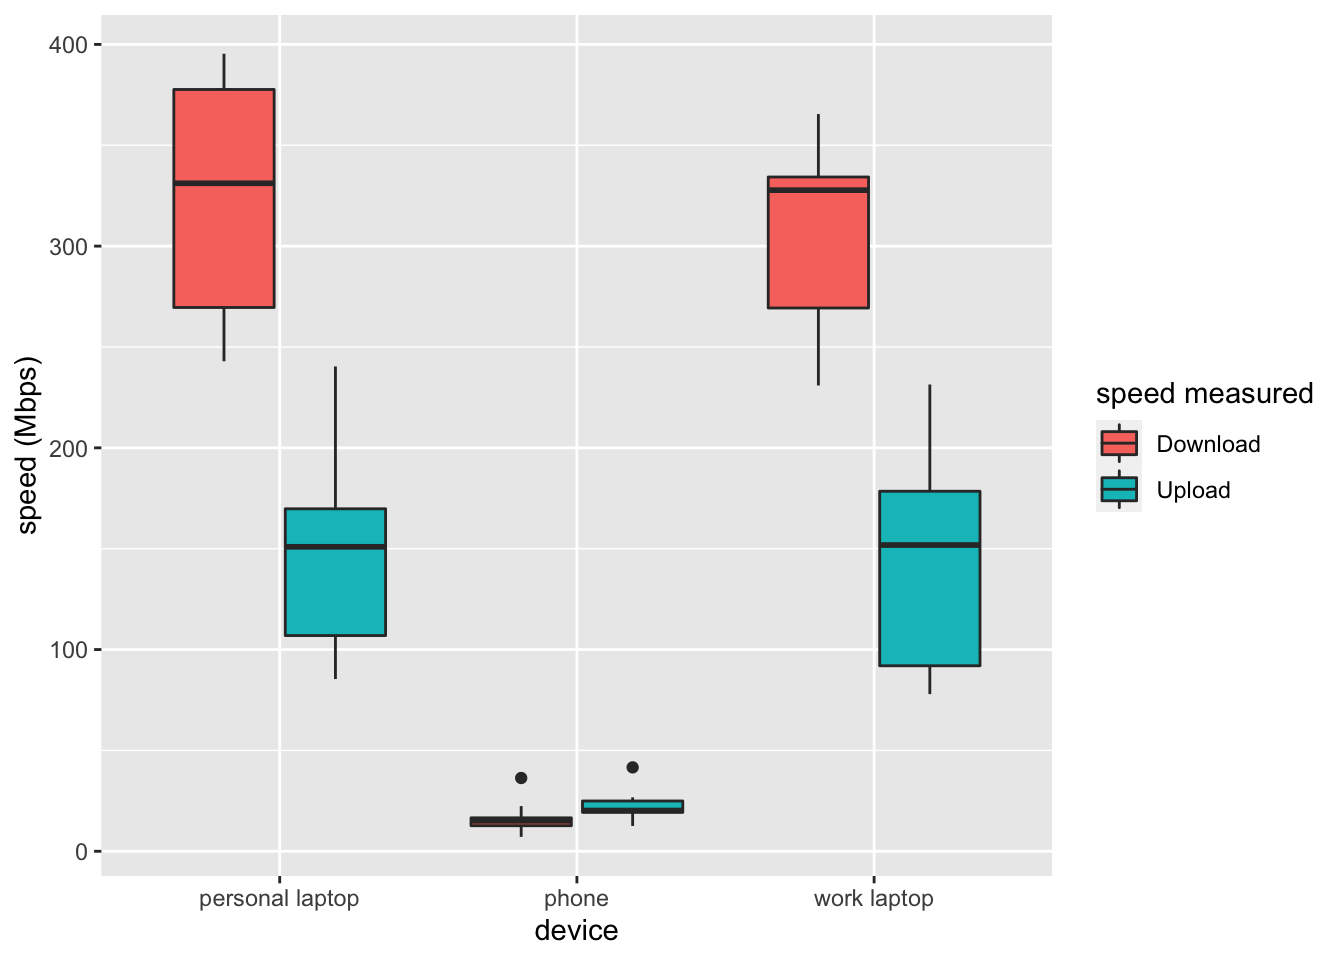
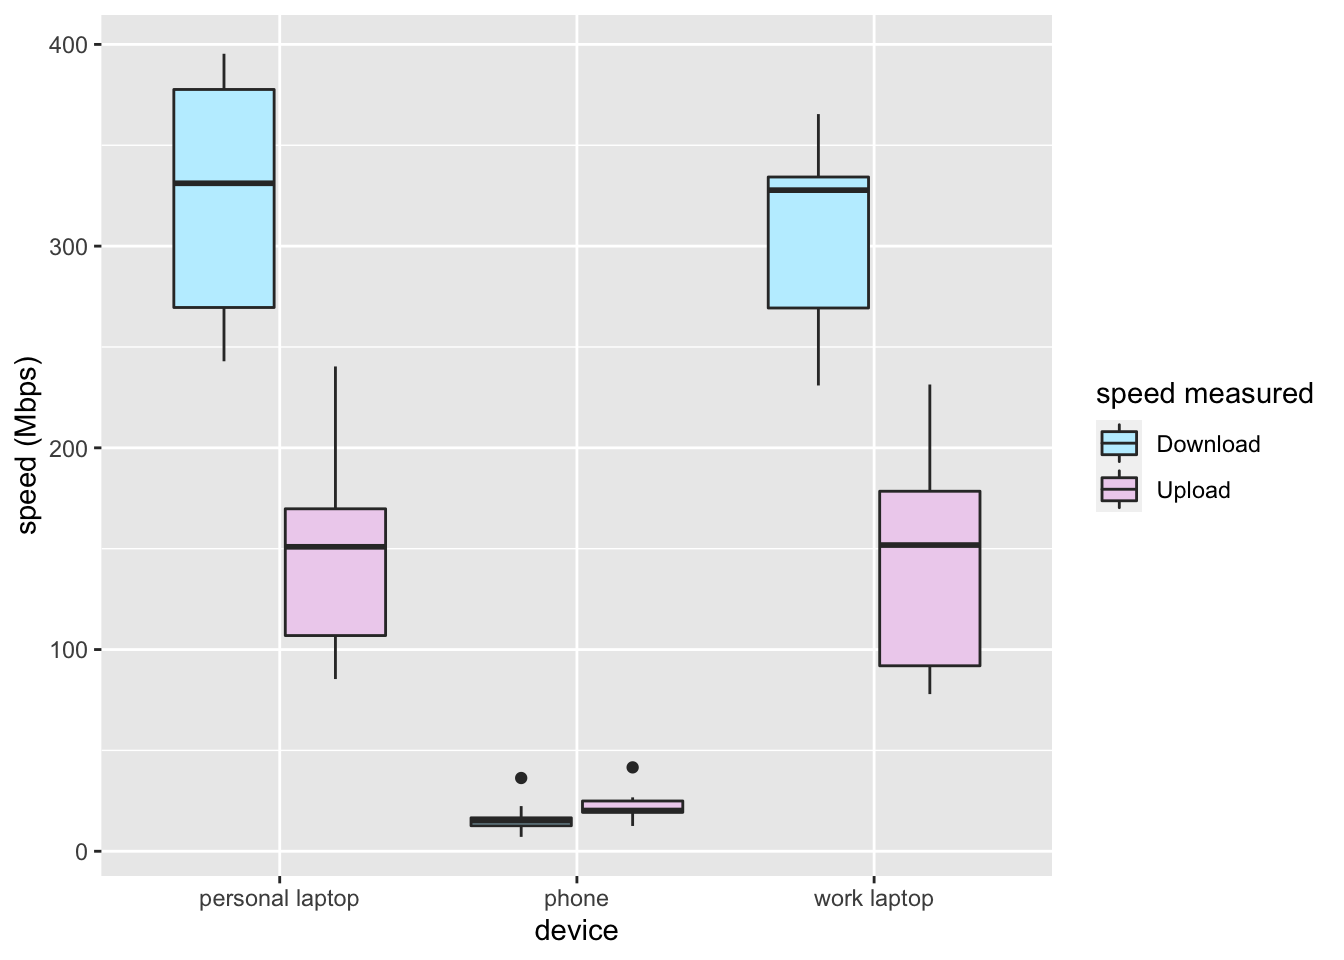
.

diff --git a/docs/hyperoptic_report.html b/docs/hyperoptic_report.html
@@ -133,9 +133,9 @@ pre > code.sourceCode > span > a:first-child::before { text-decoration: underlin
 </header>
 
 
-<p>The past week or so has been full of troubleshooting wifi speed problems. Various changes suggested by the Hyperoptic team has not succeeded in bringing my internet speed close to the speed of 1 Gbps prmised in the package I chose.</p>
+<p>The past week or so has been full of troubleshooting wifi speed problems. Various changes suggested by the Hyperoptic team has not succeeded in bringing my internet speed close to the speed of 1 Gbps promised in the package I chose.</p>
 <p>Most recent suggestion was that I try doing the speedtest on different devices. Perhaps the experts at hyperoptic are baffled their suggestions of trying a different cable or resetting the router are not working. The trouble must be with my device! So this is what I did.</p>
-<p>However, I wondered, how will they know if the difference in speed between different devices is significant? Worry not, Hyperoptic. I was trained in statistics, and my passion for <code>R</code> can help us both.</p>
+<p>However, I wondered, how will they know if the difference in speed between different devices is significant? Worry not, Hyperoptic, I was trained in statistics, and my passion for <code>R</code> can help us both.</p>
 <p>You are welcome.</p>
 <section id="create-a-summary-of-data" class="level2">
 <h2 class="anchored" data-anchor-id="create-a-summary-of-data">Create a summary of data</h2>
@@ -189,7 +189,8 @@ pre > code.sourceCode > span > a:first-child::before { text-decoration: underlin
 <span id="cb2-4"><a href="#cb2-4" aria-hidden="true" tabindex="-1"></a>  <span class="fu">geom_boxplot</span>(<span class="fu">aes</span>(<span class="at">x =</span> device, <span class="at">y =</span> value, <span class="at">fill =</span> variable)) <span class="sc">+</span></span>
 <span id="cb2-5"><a href="#cb2-5" aria-hidden="true" tabindex="-1"></a>  <span class="fu">xlab</span>(<span class="st">"device"</span>) <span class="sc">+</span></span>
 <span id="cb2-6"><a href="#cb2-6" aria-hidden="true" tabindex="-1"></a>  <span class="fu">ylab</span>(<span class="st">"speed (Mbps)"</span>) <span class="sc">+</span></span>
-<span id="cb2-7"><a href="#cb2-7" aria-hidden="true" tabindex="-1"></a>  <span class="fu">labs</span>(<span class="at">fill =</span> <span class="st">"speed measured"</span>)</span></code><button title="Copy to Clipboard" class="code-copy-button"><i class="bi"></i></button></pre></div>
+<span id="cb2-7"><a href="#cb2-7" aria-hidden="true" tabindex="-1"></a>  <span class="fu">labs</span>(<span class="at">fill =</span> <span class="st">"speed measured"</span>) <span class="sc">+</span> </span>
+<span id="cb2-8"><a href="#cb2-8" aria-hidden="true" tabindex="-1"></a>  <span class="fu">scale_fill_manual</span>(<span class="at">values =</span> <span class="fu">c</span>(<span class="st">"lightblue1"</span>, <span class="st">"thistle2"</span>))</span></code><button title="Copy to Clipboard" class="code-copy-button"><i class="bi"></i></button></pre></div>
 <div class="cell-output-display">
 <div class="quarto-figure quarto-figure-center">
 <figure class="figure">
